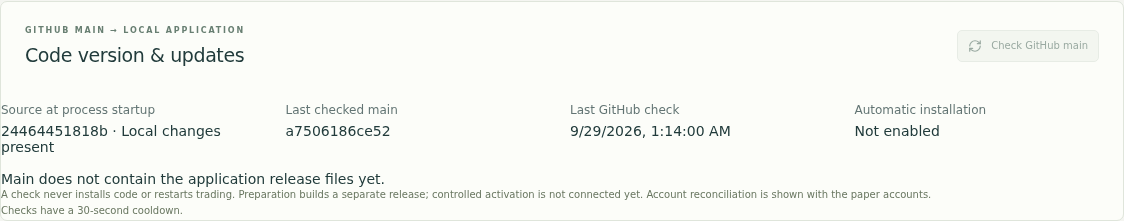
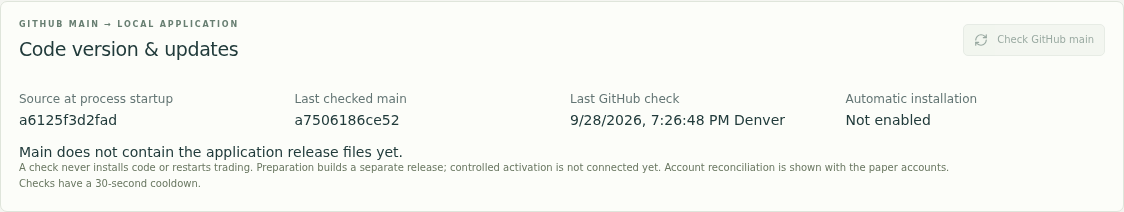
Record real release-build rehearsal and final responsive UI checks

diff --git a/docs/reviews/cp0-local-updates/README.md b/docs/reviews/cp0-local-updates/README.md
@@ -49,10 +49,22 @@ The fixture now explicitly supplies healthy disk capacity, and a separate below-
 case proves the production guard still rejects optional tools without altering
 account state. No resource limit was relaxed to make the test pass.
 
-The source-start identity shown in the initial browser receipt is the imported
-commit plus **local modifications**, exactly as reported before the new code was
-committed. It is not a claim that the imported commit alone contains this feature.
-The browser test verifies the new compiled panel and staged code, not native deployment.
+The final browser rerun used a clean code commit
+`a6125f3d2fad7ba6b98b594bbff1427b0b3cb88e` after restarting only the disposable
+loopback test server. Its receipt confirms the exact startup identity and unchanged
+GitHub main. The final screenshots include the phone-spacing correction and explicit
+Denver timestamp. Earlier precommit captures remain in Git history.
+
+A full **real release-preparation rehearsal** also passed at that code commit:
+a disposable local bare repository represented merged main, then the default builder
+cloned the exact code, created its own venv, installed pinned dependencies and the
+application wheel, ran pip check, installed locked npm dependencies without lifecycle
+scripts, built TypeScript/Vite, smoke-imported the API and verified unchanged source
+and web asset hashes. The retained synthetic runtime sentinel was unchanged.
+See `release-preparation.json`. This exercised the actual builder, not the fake
+builder used by isolated unit tests. It was **not** a GitHub merge, a Windows run,
+an operating account update or native activation. No production origin override
+is exposed by the CLI; the local test remote existed only inside this rehearsal.
 
 All operating accounts, financial journals, frozen research evidence, model services
 and Windows worktrees were left untouched. CP1's pending regression fixtures are
